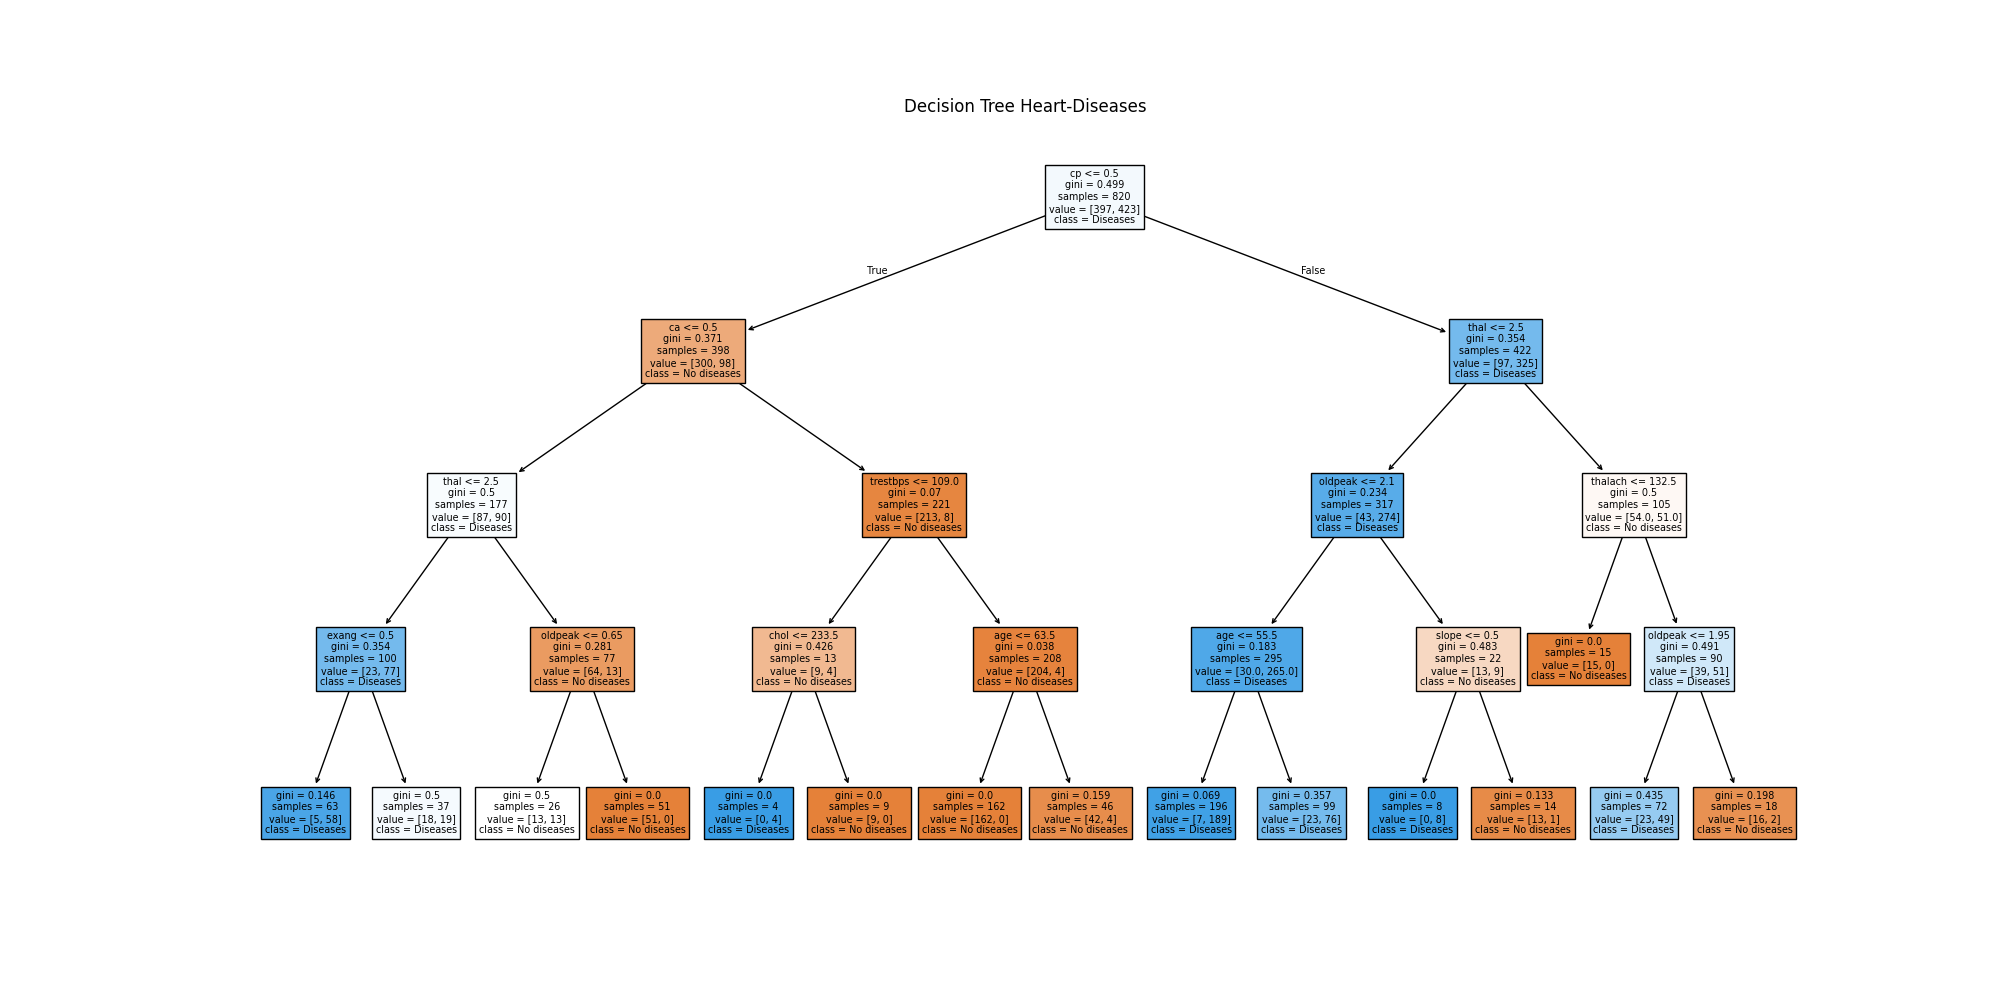
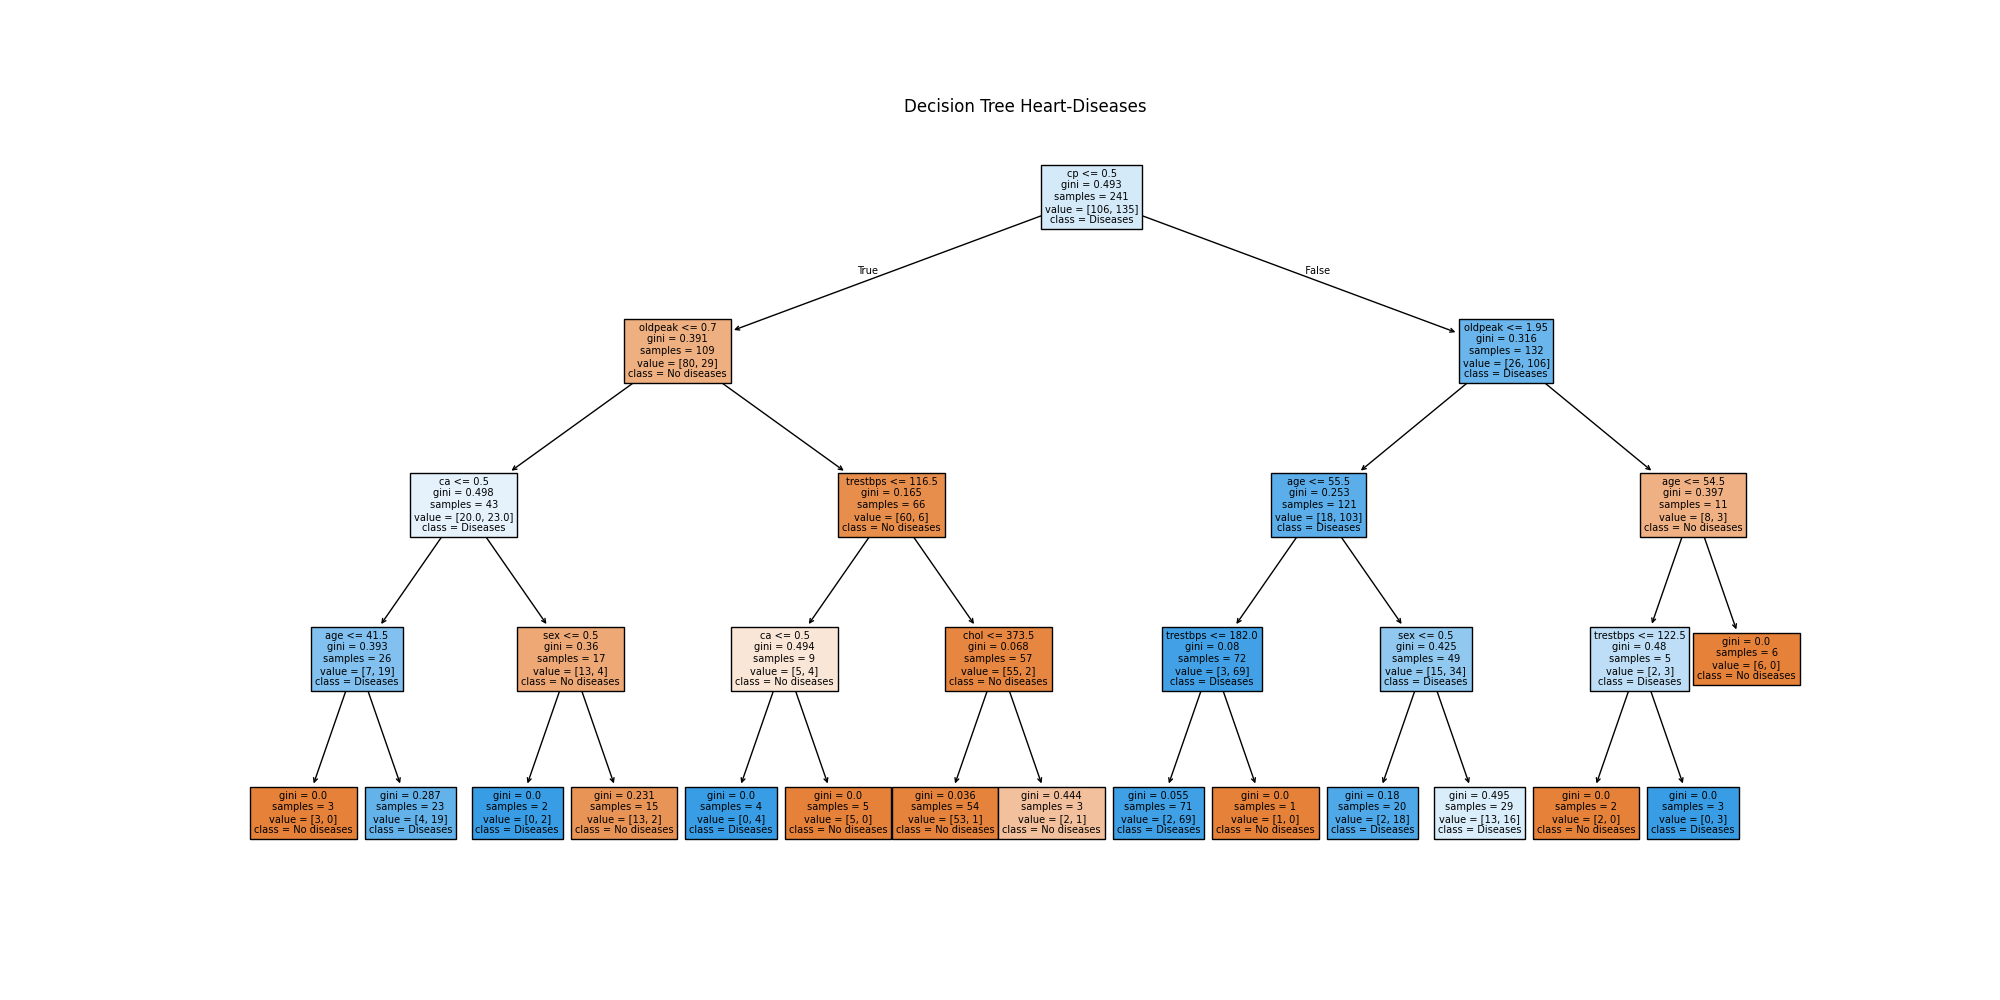
Added Hyperparameter Tunning in Readme  and practise in Decision Tree

diff --git a/Decision_tree/decision_tree.py b/Decision_tree/decision_tree.py
@@ -4,10 +4,14 @@ from sklearn.metrics import accuracy_score, confusion_matrix
 import matplotlib.pyplot as plt
 from sklearn.tree import DecisionTreeClassifier, plot_tree
 import os
+from sklearn.model_selection import GridSearchCV
 
 df= pd.read_csv("heart.csv")
-print(df.head())
+df = df.drop_duplicates()
 print(df.shape)
+print(df.head())
+
+
 X=df.drop("target", axis=1)
 y=df["target"]
 X_train,X_test,y_train,y_test= train_test_split(X,y,test_size=0.2,random_state=42)
@@ -17,9 +21,25 @@ y_pred=model.predict(X_test)
 print("Accuracy:",accuracy_score(y_test, y_pred))
 print("Confusion_matrix:",confusion_matrix(y_test, y_pred))
 
+print(df.duplicated().sum())
+
 plt.figure(figsize=(20,10))
 plot_tree(model,feature_names=X.columns,class_names=["No diseases","Diseases"],filled=True)
 plt.title("Decision Tree Heart-Diseases")
 os.makedirs("visual",exist_ok=True)
 plt.savefig("visual/decision_tree.png")
 plt.show()
+
+param_grid = {
+    "max_depth" : [2,3,6,8,9],
+    "min_samples_split" : [2,4,6,8],
+}
+grid_search = GridSearchCV(
+    DecisionTreeClassifier(random_state =42),
+    param_grid,
+    cv=5,
+    scoring= 'accuracy'
+)
+search = grid_search.fit(X,y)
+print(search.best_params_)
+print(search.best_score_)

diff --git a/cross_validation/cross_ validation.py b/cross_validation/cross_ validation.py
@@ -3,21 +3,27 @@ from sklearn.preprocessing import LabelEncoder
 from sklearn.model_selection import cross_val_score
 from sklearn.linear_model import LinearRegression
 
-
 df = pd.read_csv("StudentsPerformance.csv")
 
 encoder = LabelEncoder()
 
-categorical_column =["gender","race/ethnicity","test preparation course","parental level of education","lunch"]
+categorical_column =["gender",
+                     "race/ethnicity",
+                     "test preparation course",
+                     "parental level of education",
+                     "lunch"]
 for i in categorical_column:
     df[i] = encoder.fit_transform(df[i])
     print(df[i])
-# print(df.isnull().sum())
-# print(df.describe())
+
+print(df.isnull().sum())
+print(df.describe())
 print(df.head())
-# print(df.shape)
+print(df.shape)
+
 X =df.drop("math score", axis=1)
 y=df["math score"]
+
 model=LinearRegression()
 score = cross_val_score(model, X,y, cv= 5)
 print(score)

diff --git a/Hyperparameter_tunning/hyperparameter.py b/Hyperparameter_tunning/hyperparameter.py
@@ -1,6 +1,5 @@
 import pandas as pd
 from sklearn.preprocessing import LabelEncoder
-from sklearn.model_selection import train_test_split
 from sklearn.tree import DecisionTreeRegressor
 from sklearn.model_selection import GridSearchCV
 from sklearn.model_selection import cross_val_score
@@ -8,7 +7,7 @@ from sklearn.model_selection import cross_val_score
 
 # Load dataset
 df = pd.read_csv('StudentsPerformance.csv')
-
+print(df.duplicated().sum())
 # Label Encoding for categorical columns 
 le = LabelEncoder()
 categorical_cols = df.select_dtypes(include='object').columns

diff --git a/README.md b/README.md
@@ -574,3 +574,107 @@ giving every data point a turn being tested, then averaging the results.
 - For regression problems, `cross_val_score` defaults to R² as the
   scoring metric
 - A small spread between fold scores indicates a stable, generalizable model
+
+# 09-Hyperparameter Tuning — GridSearchCV
+
+## Concept
+
+Hyperparameters are settings chosen **before** training a model
+(like `max_depth` or `min_samples_split`) — unlike parameters, which
+the model learns on its own from data. Since the best hyperparameter
+values depend on the specific dataset, they can't be calculated in
+advance — they must be found empirically by testing multiple candidates.
+
+`GridSearchCV` automates this by exhaustively testing every combination
+of hyperparameters supplied in a `param_grid`, using cross-validation
+to score each combination fairly, then reporting the best one.
+
+## Key Terms
+
+- **param_grid** — dictionary of hyperparameter names mapped to lists of candidate values
+- **GridSearchCV** — exhaustively tests every combination in `param_grid` using cross-validation
+- **best*params*** — the winning hyperparameter combination
+- **best*score*** — the average cross-validated score of the winning combination
+
+---
+
+## Part 1 — Heart Disease Dataset (Decision Tree Classifier)
+
+**Goal:** Tune `max_depth` and `min_samples_split` for a `DecisionTreeClassifier`.
+
+### ⚠️ Data Leakage Catch
+
+First run gave a suspiciously high score:
+
+| Model                              | Score             |
+| ---------------------------------- | ----------------- |
+| Untuned baseline (`max_depth=4`)   | 0.80 accuracy     |
+| GridSearchCV tuned (first attempt) | 0.998 accuracy ⚠️ |
+
+A jump to 99.8% was a red flag, so I checked for duplicate rows:
+
+\`\`\`python
+print(df.duplicated().sum())
+
+# Output: 723
+
+\`\`\`
+
+**723 out of 1025 rows were duplicates** — over 70% of the dataset. This
+caused data leakage: cross-validation folds had near-identical rows in
+both training and validation splits, inflating the score artificially.
+
+### Fix
+
+\`\`\`python
+df = df.drop_duplicates()
+
+# New shape: (302, 14)
+
+\`\`\`
+
+### Corrected, Legitimate Results
+
+| Model                                                   | Accuracy   |
+| ------------------------------------------------------- | ---------- |
+| Untuned baseline (`max_depth=4`)                        | 0.7377     |
+| GridSearchCV tuned (`max_depth=3, min_samples_split=2`) | **0.7946** |
+
+**Improvement:** ~5.7 percentage points — a real, trustworthy gain
+after removing leakage.
+
+---
+
+## Part 2 — Students Performance Dataset (Decision Tree Regressor)
+
+**Goal:** Tune `max_depth`, `min_samples_split`, and `min_samples_leaf`
+for a `DecisionTreeRegressor` predicting math score.
+
+### Duplicate Check
+
+\`\`\`python
+print(df.duplicated().sum())
+
+# Output: 0
+
+\`\`\`
+
+No duplicates — dataset confirmed clean, so results below are trustworthy.
+
+### Results
+
+| Model                                                                        | R² Score   |
+| ---------------------------------------------------------------------------- | ---------- |
+| Default (untuned) `DecisionTreeRegressor`                                    | 0.7027     |
+| GridSearchCV tuned (`max_depth=7, min_samples_leaf=2, min_samples_split=10`) | **0.8050** |
+
+**Improvement:** ~10 percentage points — a substantial, legitimate gain.
+
+---
+
+## Key Learnings
+
+- `GridSearchCV` exhaustively searches every combination in `param_grid`, scoring each with cross-validation
+- The `scoring` metric must match the problem type: `accuracy` for classification, `r2` for regression
+- **Data leakage from duplicate rows can badly inflate scores** — always check `df.duplicated().sum()` before trusting any cross-validated score
+- Tuning a shallower tree generalized better once the dataset shrank to unique rows — smaller datasets are more prone to overfitting with deeper trees